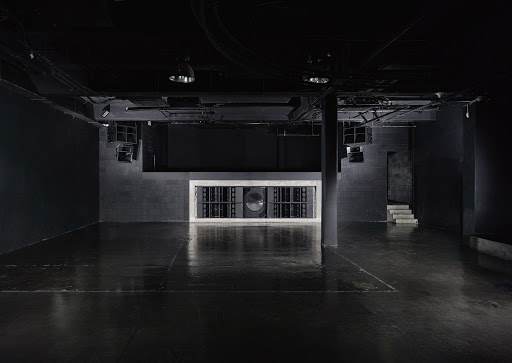
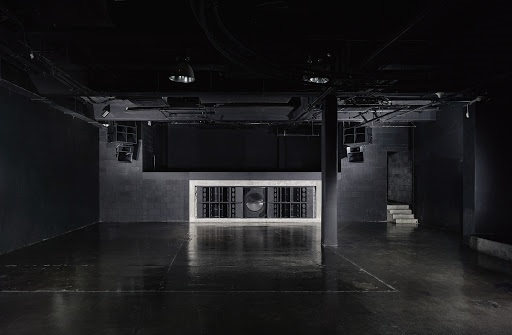
image size changed, overlay deleted

diff --git a/index.html b/index.html
@@ -39,12 +39,12 @@
         <br>
         <br>
         <br>
-        <i class="fas fa-map-marker-alt"></i>
-        <h3 class="display-5">METRONOM LOFT PLACE</h3>
+        
+        <i class="fas fa-map-marker-alt"></i><h3 class="display-5">METRONOM LOFT PLACE</h3>
         <button id="book" data-toggle="modal" data-target="#tickets" class="btn btn-lg btn-secondary px-5"data-toggle="tooltip" title="Will open tickets form">GET TICKETS</button>
         <br>
         <br>
-        <a href="loading.html" id="tlacitko"> Loading icon here...</a>
+        
     </div>
     </section>
     <section id="about">

diff --git a/css/main.css b/css/main.css
@@ -7822,14 +7822,7 @@ body {
     line-height: 1; }
   #showcase #book {
     font-size: 1.5rem; }
-  #showcase #overlay {
-    background: rgba(0, 0, 0, 0.4);
-    position: absolute;
-    top: 68px;
-    left: 0;
-    width: 100%;
-    height: 100%;
-    z-index: 1; }
+  
   #showcase #header {
     z-index: 2; }
 
